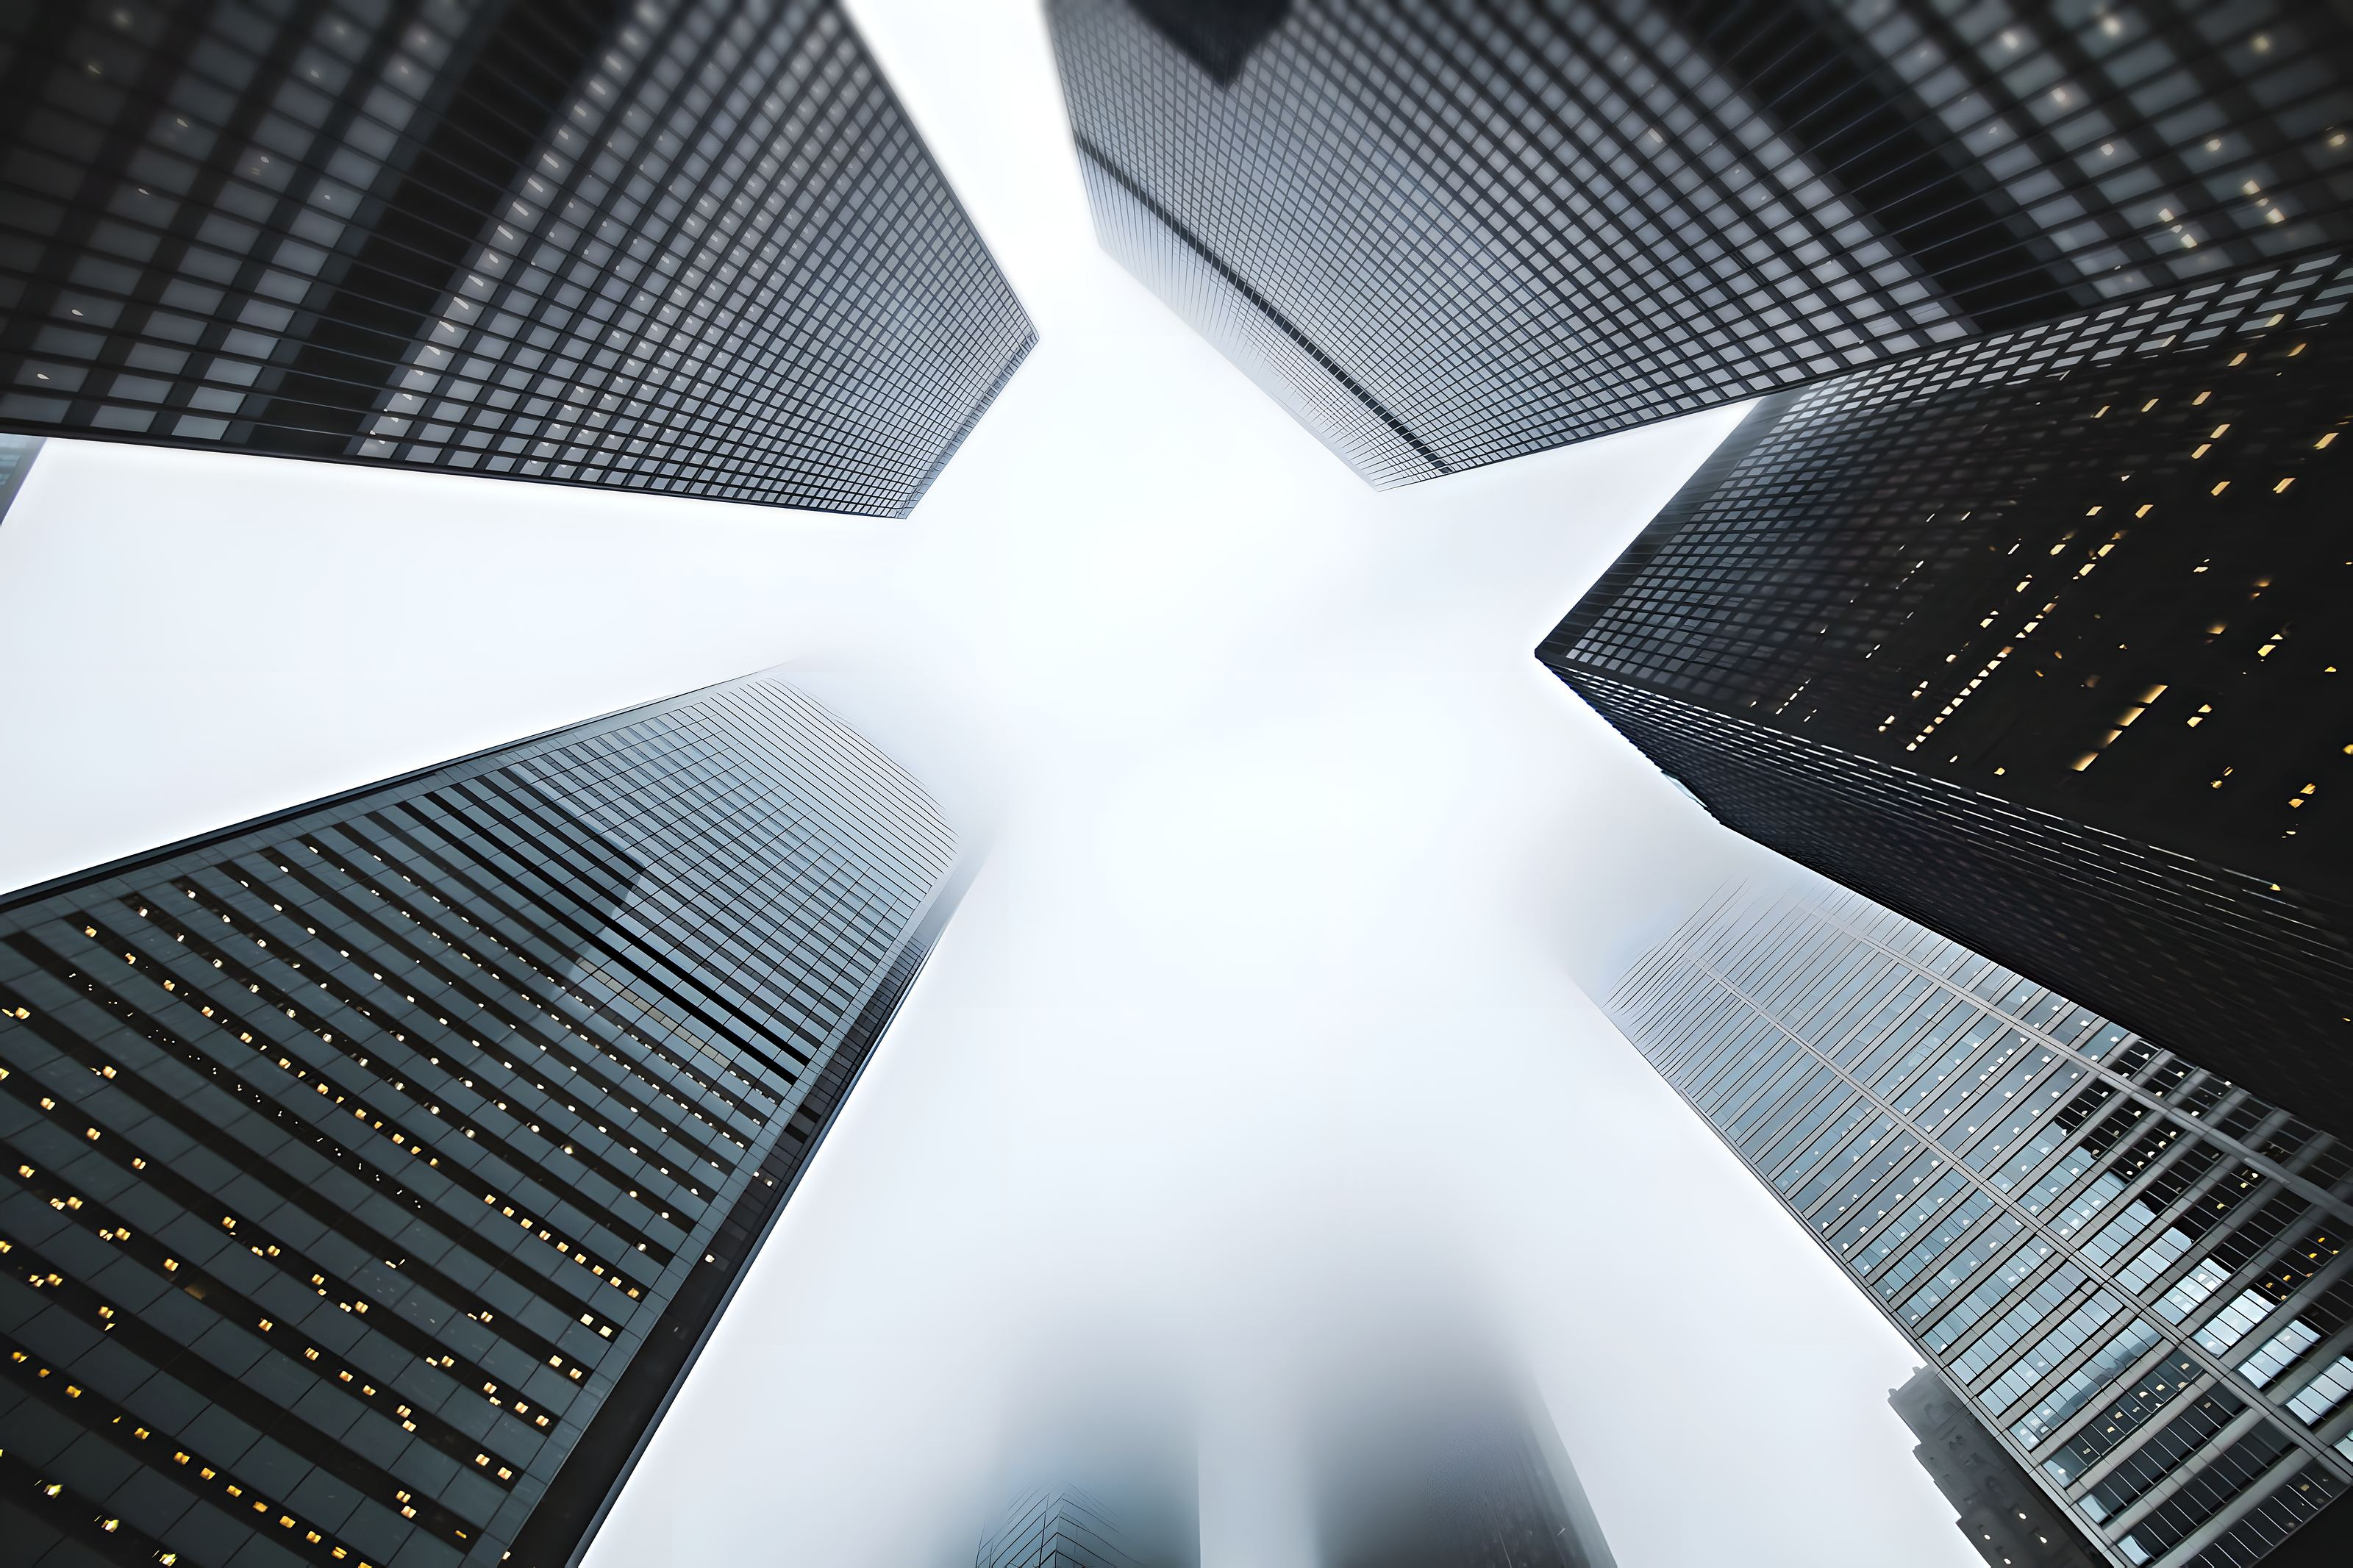
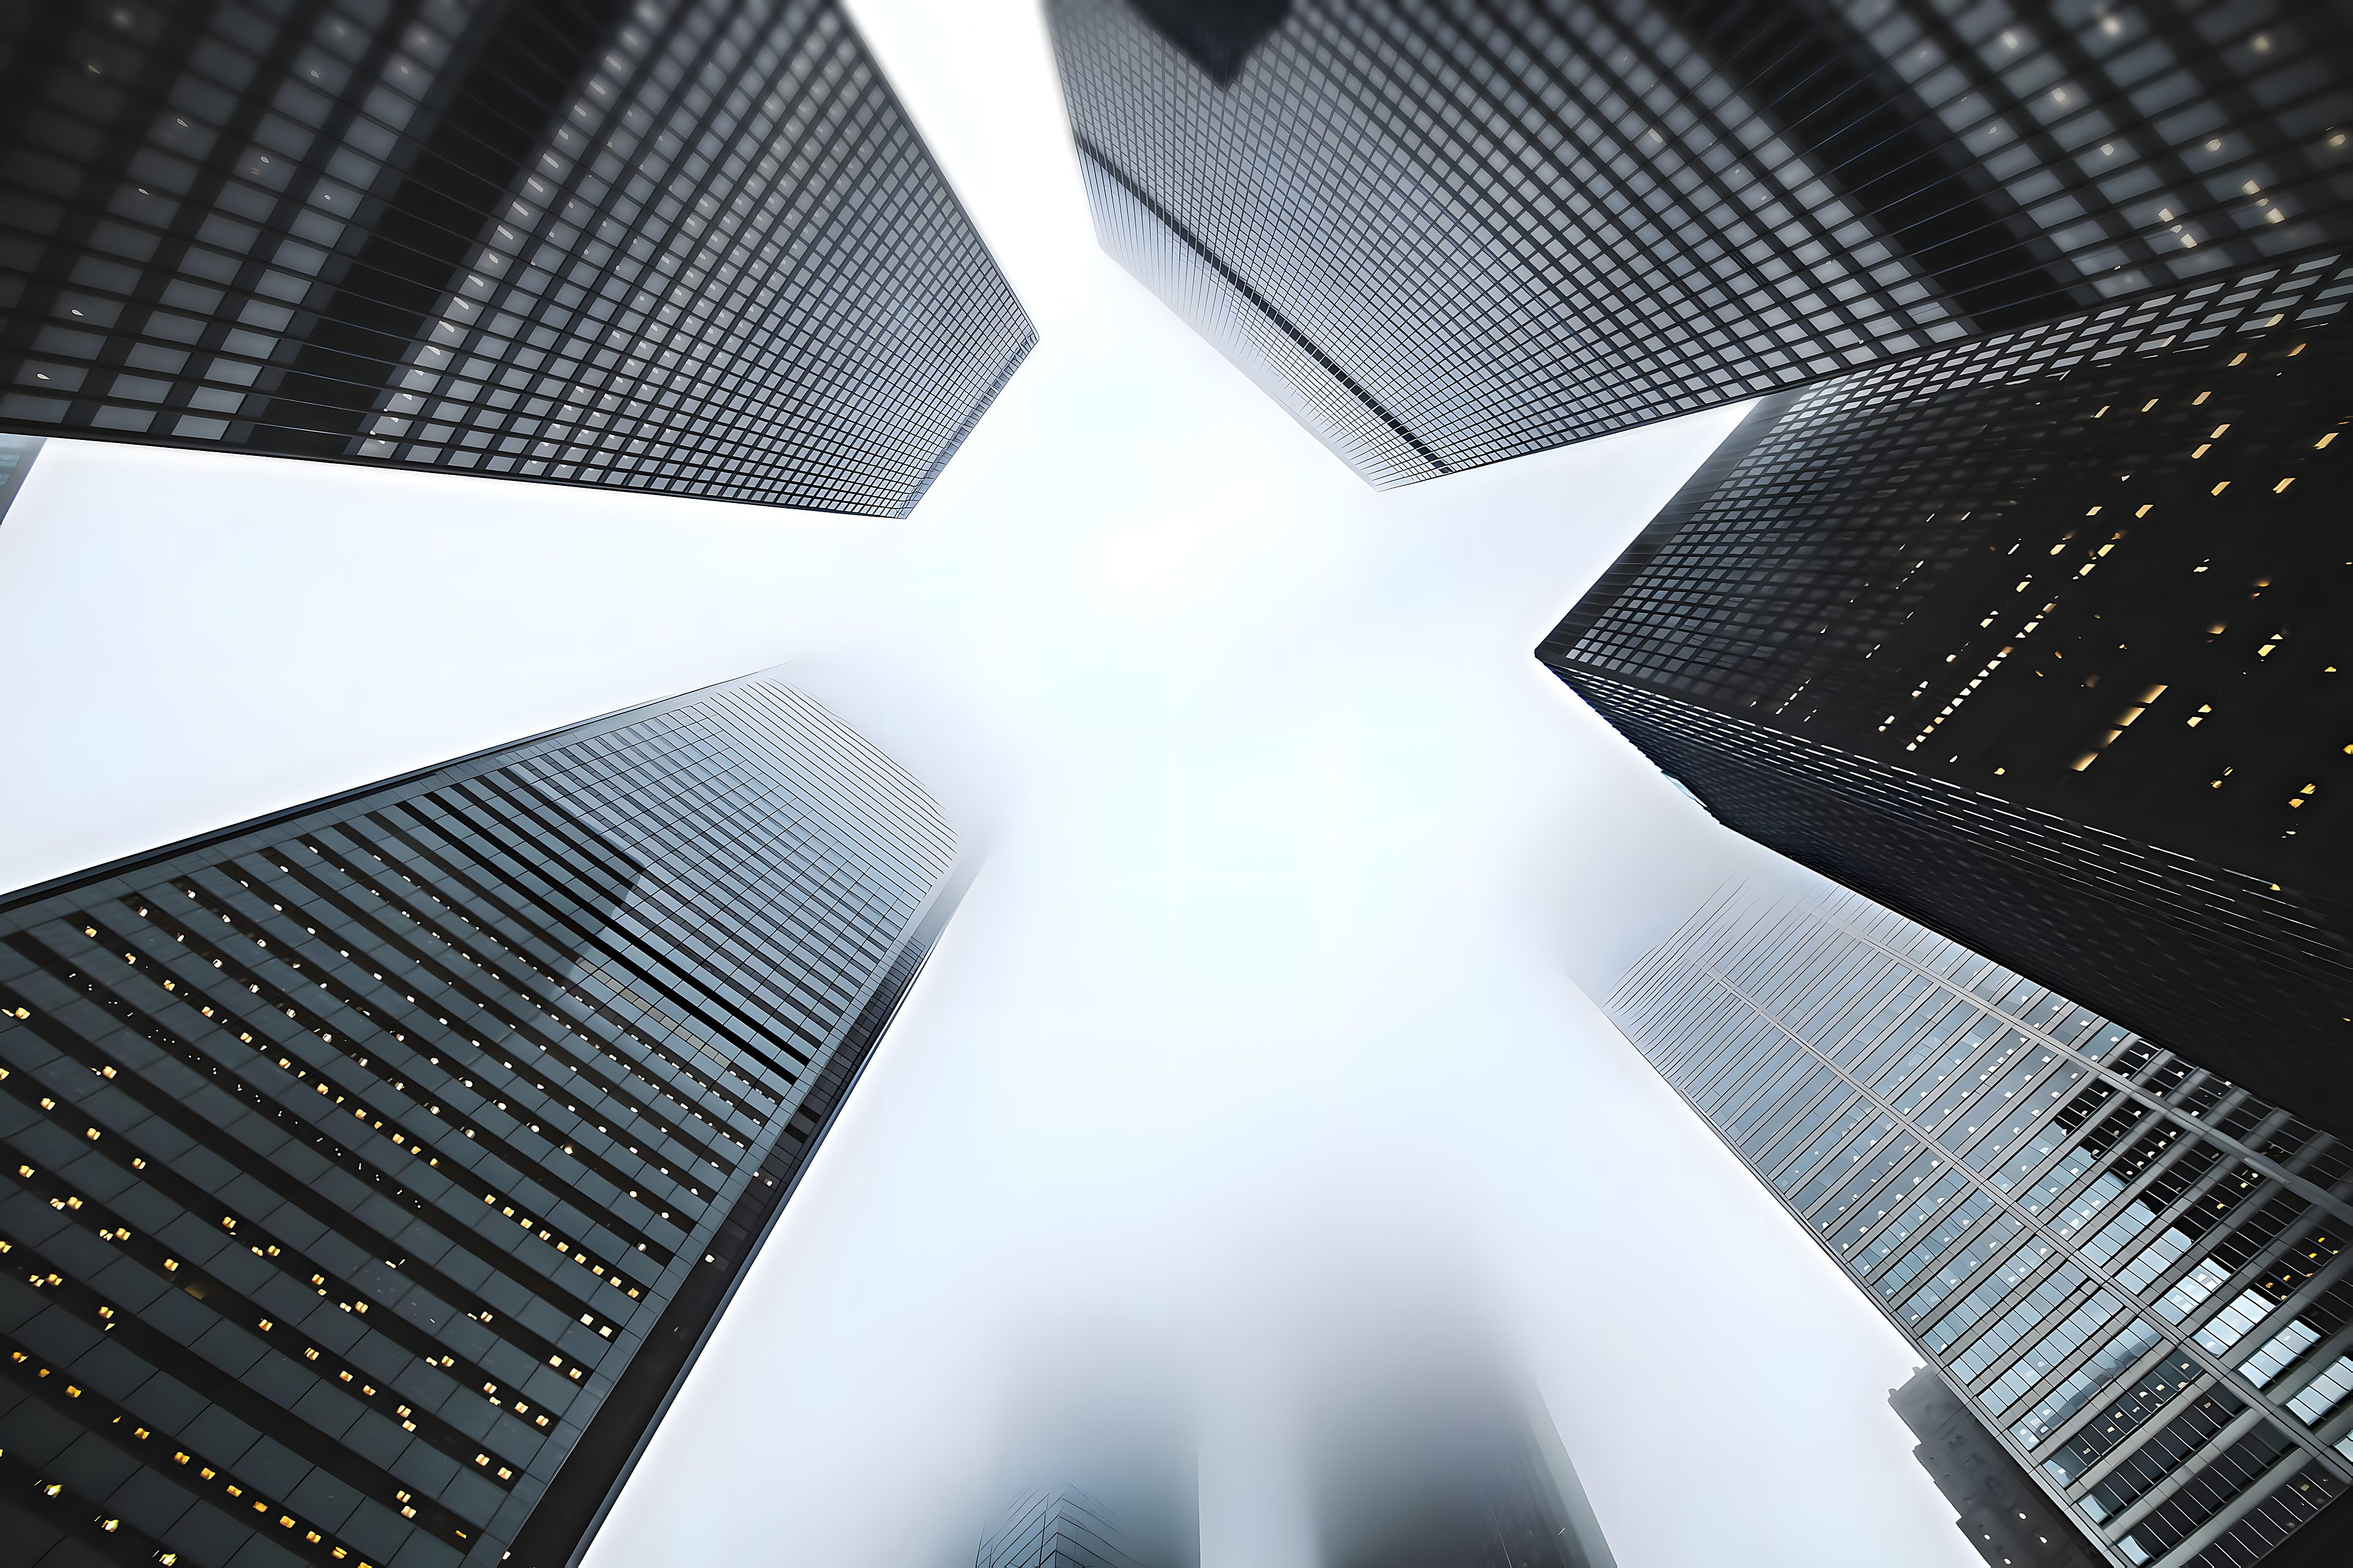
feat(gungnir+assets): full-section topography, device-pixel masters
- Gungnir topography now carries the ENTIRE slice zone - headline,
  direction radio, Circle sketch and the Stress-test CTA all sit on one
  full-bleed band. Implementation: st.container(key='gungnir_zone') +
  background on the container's ::before pseudo (the showcase-row
  pattern) - the first attempt used negative margins on the container
  itself and collapsed Streamlit's width math to a 90px column.
- Headline 'Reading ends. Wielding begins.' replaced with
  'From evidence to allocation.' (John: corny; Council: describe the
  transition, don't perform it).
- assets/gungnir.png regenerated natively at 4800x2400 (procedural, same
  rune geometry 1:1 with the reference), palette-quantized to 549KB.
- Casper facade + Gotham band re-derived: Real-ESRGAN x4plus on the
  art-directed finals (RTX 5080), LANCZOS down to 3840px wide - true
  device-pixel resolution for a 2560-CSS-px viewport at 150% scaling
  (the old 2400px facade was being upscaled by the browser). Gentle
  unsharp after the downsample; the approved art direction is baked in
  and untouched. facade 2.5MB / band 1.3MB - flagged for Phase VI
  weight tuning.

73/73 tests.

diff --git a/main.py b/main.py
@@ -152,16 +152,18 @@ html { scroll-behavior: smooth; }
 #engine { scroll-margin-top: 28px; }
 #analysis { scroll-margin-top: 28px; }
 #gungnir { scroll-margin-top: 28px; }
-/* Gungnir - the slice band: beige topography engraved with the bound rune,
-   strongest at the left edge, dissolving toward the reading column - the
-   mirror of Casper's right-anchored facade. */
-.gungnir-band { position: relative; margin: 38px calc(50% - 50vw) 4px;
-  padding: 78px max(calc(50vw - 50%), 48px) 70px;
+/* Gungnir - the slice: the WHOLE zone (headline, direction radio, circle
+   sketch, CTA) sits on one beige topography engraved with the bound rune,
+   strongest at the left edge, dissolving rightward - Casper's mirror. */
+.st-key-gungnir_zone { position: relative; padding: 64px 0 84px; margin-top: 30px; }
+.st-key-gungnir_zone::before { content: ""; position: absolute;
+  top: 0; bottom: 0; left: calc(50% - 50vw); right: calc(50% - 50vw);
   background-color: #F4F1EA; background-size: cover;
-  background-position: left center; background-repeat: no-repeat;
+  background-position: left top; background-repeat: no-repeat;
   border-top: 1px solid #C4BDAE; border-bottom: 1px solid #C4BDAE; }
-.gungnir-band .showcase-eyebrow { color: #9A7B4F; }
-.gungnir-band .showcase-title { color: #3F3B35; margin: 6px 0 10px; }
+.st-key-gungnir_zone > * { position: relative; z-index: 1; }
+.gungnir-head .showcase-eyebrow { color: #9A7B4F; }
+.gungnir-head .showcase-title { color: #3F3B35; margin: 6px 0 10px; }
 .gungnir-sub { font-family: Georgia, serif; font-size: 14px; color: #6B6459;
   max-width: 600px; line-height: 1.6; }
 @keyframes section-arrive { from { opacity: .25; transform: translateY(26px); }
@@ -1294,13 +1296,18 @@ except Exception:  # noqa: BLE001 - asset missing: plain band, honest fallback
     _gungnir_bg = ""
 st.markdown(
     f'<div id="gungnir"></div>'
-    f'<div class="gungnir-band" style="{_gungnir_bg}">'
-    f'<div class="showcase-eyebrow">Gungnir · The Slice</div>'
-    f'<h2 class="showcase-title" style="font-size:30px;">Reading ends. Wielding begins.</h2>'
-    f'<div class="gungnir-sub">Everything above was the case. Everything below is the tool: '
-    f'choose a side, pick a universe, and every number recomputes live from market data.</div>'
-    f'</div>',
+    f'<style>.st-key-gungnir_zone::before {{ {_gungnir_bg} }}</style>',
     unsafe_allow_html=True)
+_gungnir_zone = st.container(key="gungnir_zone")
+with _gungnir_zone:
+    st.markdown(
+        '<div class="gungnir-head">'
+        '<div class="showcase-eyebrow">Gungnir · The Slice</div>'
+        '<h2 class="showcase-title" style="font-size:30px;">From evidence to allocation.</h2>'
+        '<div class="gungnir-sub">Everything above was the case. Everything below is the tool: '
+        'choose a side, pick a universe, and every number recomputes live from market data.</div>'
+        '</div>',
+        unsafe_allow_html=True)
 
 # ---- Direction: the same honest math from either side of the trade ----
 # Council pass 7: bearish mode models a SYNTHETIC DAILY-REBALANCED SHORT
@@ -1308,16 +1315,17 @@ st.markdown(
 # eigenvectors, volatility) are mathematically identical either way and are
 # never relabeled; only asymmetric ones (tails, drawdowns, Monte Carlo,
 # factor betas, Bon Voyage) genuinely recompute.
-_dir_col = st.columns([1.2, 2.6, 1.2])[1]
-with _dir_col:
-    direction = st.radio(
-        "Which side of the trade are you on?",
-        ["Bullish - long the book", "Bearish - short the book"],
-        horizontal=True, key="bv_direction",
-        help="Bearish mode re-runs every tail metric, Monte Carlo path and "
-             "the Bon Voyage pairing on a synthetic daily-rebalanced short "
-             "of the same assets. Borrow fees, margin interest and buy-ins "
-             "are NOT modeled - real short results are worse than shown.")
+with _gungnir_zone:
+    _dir_col = st.columns([1.2, 2.6, 1.2])[1]
+    with _dir_col:
+        direction = st.radio(
+            "Which side of the trade are you on?",
+            ["Bullish - long the book", "Bearish - short the book"],
+            horizontal=True, key="bv_direction",
+            help="Bearish mode re-runs every tail metric, Monte Carlo path and "
+                 "the Bon Voyage pairing on a synthetic daily-rebalanced short "
+                 "of the same assets. Borrow fees, margin interest and buy-ins "
+                 "are NOT modeled - real short results are worse than shown.")
 bearish = direction.startswith("Bearish")
 _bv_sk_a, _bv_sk_b = ("the short position", "the squeeze cushion") if bearish \
     else ("the high-flyer", "the steady cushion")
@@ -1325,7 +1333,8 @@ _bv_sk_a, _bv_sk_b = ("the short position", "the squeeze cushion") if bearish \
 # endpoints sit on each circle's edge plus a 4px breath, never inside. All
 # labels are sized against the chord width where they sit, so nothing
 # overflows a circle or collides with a role caption.
-st.markdown(
+with _gungnir_zone:
+    st.markdown(
     f'<div class="showcase-section reveal" style="padding-top:2px;text-align:center;">'
     f'<svg viewBox="0 0 320 214" width="460" height="308" xmlns="http://www.w3.org/2000/svg" style="opacity:.92;max-width:92vw;height:auto;">'
     f'<line x1="105" y1="133" x2="204" y2="74" stroke="#9A7B4F" stroke-width="1.5" stroke-dasharray="5 4"/>'
@@ -1343,7 +1352,10 @@ st.markdown(
     f'</div>'
     f'<a href="#engine" class="cta-btn" style="margin-top:14px;">'
     f'Stress-test it live &darr;</a>'
-    f'</div>'
+    f'</div>',
+    unsafe_allow_html=True)
+
+st.markdown(
     f'<hr class="section-divider">'
     f'<div class="engine-heading reveal" id="engine">'
     f'<div class="showcase-eyebrow">The Engine</div>'